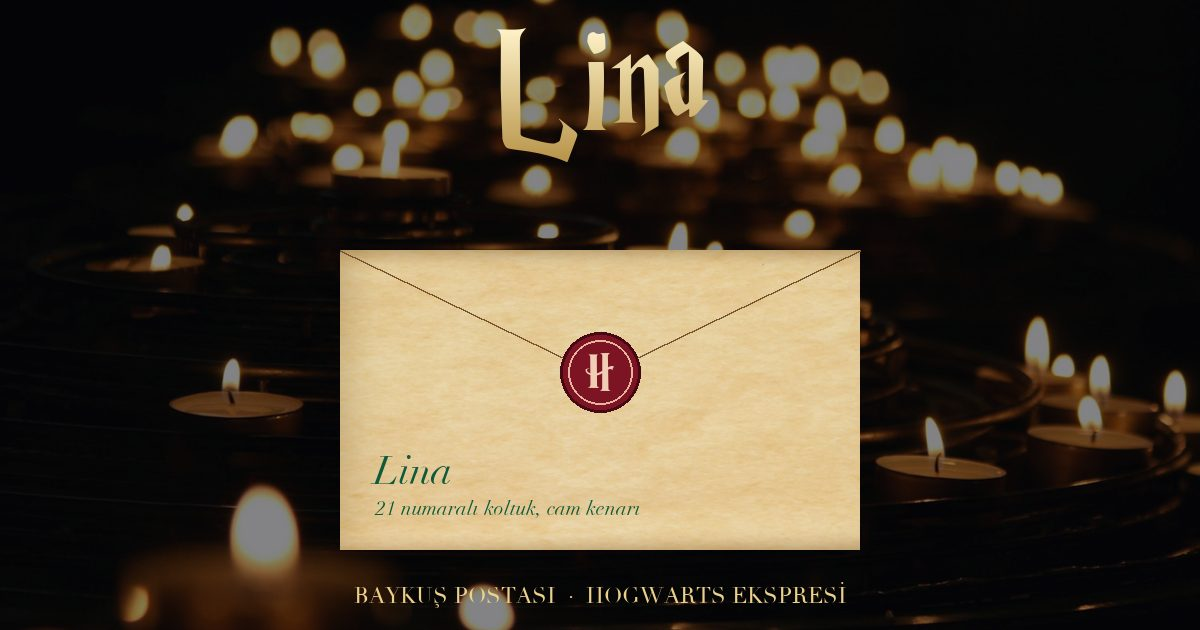
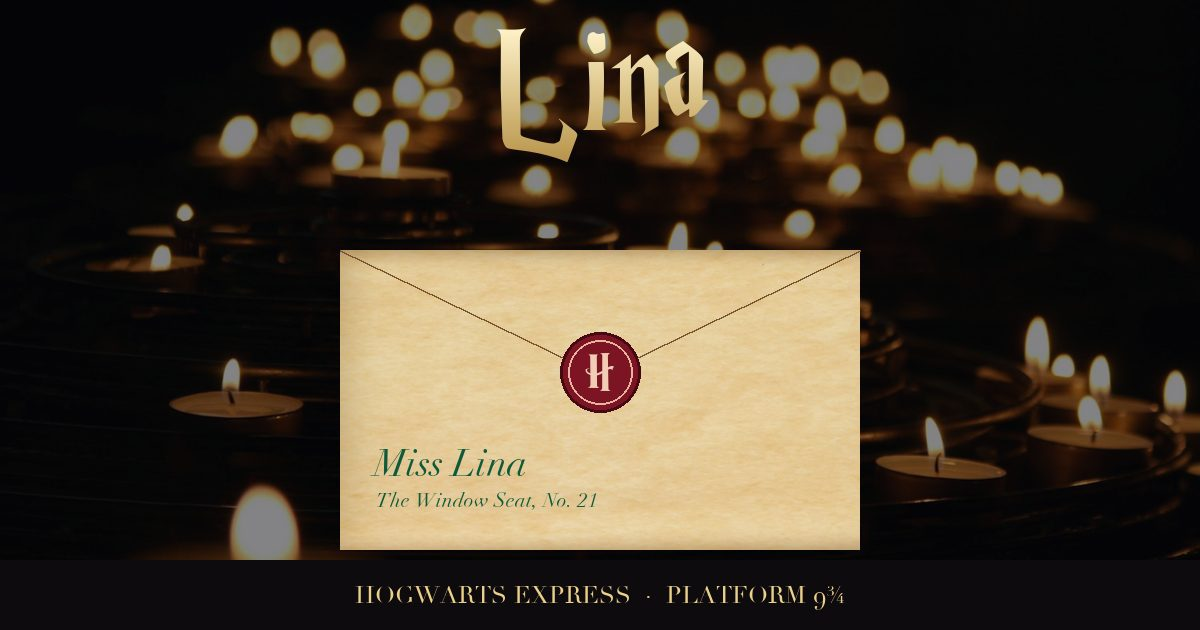
İkonik replikler orijinal İngilizce

Changed region(s): [[0.0925, 0.8746, 0.7092, 1.0], [0.3083, 0.6937, 0.5242, 0.8143], [0.74, 0.9651, 0.8017, 0.9952]]

diff --git a/index.html b/index.html
@@ -12,14 +12,14 @@
 <meta property="og:title" content="Lina'ya baykuş postası">
 <meta property="og:description" content="Hogwarts'tan bir mektubun var. Mührü kır.">
 <meta property="og:url" content="https://b-eginn.github.io/kis-sayisi/">
-<meta property="og:image" content="https://b-eginn.github.io/kis-sayisi/img/onizleme.jpg?v=3">
-<meta property="og:image:secure_url" content="https://b-eginn.github.io/kis-sayisi/img/onizleme.jpg?v=3">
+<meta property="og:image" content="https://b-eginn.github.io/kis-sayisi/img/onizleme.jpg?v=4">
+<meta property="og:image:secure_url" content="https://b-eginn.github.io/kis-sayisi/img/onizleme.jpg?v=4">
 <meta property="og:image:type" content="image/jpeg">
 <meta property="og:image:width" content="1200">
 <meta property="og:image:height" content="630">
 <meta property="og:image:alt" content="Mühürlü bir Hogwarts mektubu: Lina, 21 numaralı koltuk">
 <meta name="twitter:card" content="summary_large_image">
-<meta name="twitter:image" content="https://b-eginn.github.io/kis-sayisi/img/onizleme.jpg?v=3">
+<meta name="twitter:image" content="https://b-eginn.github.io/kis-sayisi/img/onizleme.jpg?v=4">
 <title>Lina'ya Baykuş Postası</title>
 <style>html{-webkit-text-size-adjust:100%}body{margin:0}[hidden]{display:none!important}</style>
 <link rel="preconnect" href="https://fonts.googleapis.com">
@@ -201,7 +201,7 @@ button:focus-visible,input:focus-visible,a:focus-visible{outline:2px solid var(-
 .paper > *{position:relative}
 .np{padding-block:40px 56px}
 .np-mast{text-align:center;border-bottom:3px double #1b1814;padding-bottom:6px}
-.np-mast .ttl{font-family:var(--goth);font-weight:800;font-size:clamp(46px,14vw,78px);line-height:.95}
+.np-mast .ttl{font-family:var(--goth);font-weight:800;font-size:clamp(34px,10vw,70px);line-height:1;white-space:nowrap}
 .np-line{display:flex;justify-content:space-between;gap:8px;font-family:var(--display);font-size:9.5px;letter-spacing:.12em;text-transform:uppercase;border-bottom:1px solid #1b1814;padding:6px 0;margin-bottom:18px}
 .np-head{font-family:var(--display);font-weight:900;font-size:clamp(25px,7.2vw,38px);line-height:1.05;text-align:center;letter-spacing:.01em}
 .np-sub{font-style:italic;font-size:19px;text-align:center;margin:10px auto 18px;max-width:34ch}
@@ -349,6 +349,7 @@ button:focus-visible,input:focus-visible,a:focus-visible{outline:2px solid var(-
 #stars{position:absolute;inset:0;width:100%;height:100%;opacity:0;transition:opacity 1.6s ease;pointer-events:none}
 .finale.dark{background:#05040a}
 .finale.dark #stars{opacity:1}
+.mm{font-style:italic;font-size:19px;opacity:.75;margin-top:4px}
 .spell{font-family:var(--display);font-weight:700;letter-spacing:.3em;text-transform:uppercase;font-size:13px;background:transparent;border:1px solid var(--gold);color:var(--gold-hi);padding:12px 26px;border-radius:999px}
 .foot{font-family:var(--display);font-size:9.5px;letter-spacing:.14em;text-transform:uppercase;opacity:.5;line-height:1.8;margin-top:30px}
 
@@ -437,13 +438,13 @@ button:focus-visible,input:focus-visible,a:focus-visible{outline:2px solid var(-
 
   <div class="stage" id="stage">
     <p class="hp-name" id="hpName">Lina</p>
-    <p class="cover-sub" id="coverSub">Bir mektubun var.</p>
+    <p class="cover-sub" id="coverSub" lang="en">Yer a witch, Lina.</p>
     <div class="envelope" id="envelope">
       <span class="no-stamp">Pulsuz. Baykuşla teslim edilmiştir.</span>
       <div class="address">
-        <b>Lina</b>
-        21 numaralı koltuk, cam kenarı<br>
-        Tarsus–Nevşehir otobüsü
+        <b>Miss Lina</b>
+        <span lang="en">The Window Seat, No. 21<br>
+        The Tarsus–Nevşehir Coach</span>
       </div>
       <button class="seal pulse" id="seal" aria-label="Mührü kır ve mektubu aç">H</button>
     </div>
@@ -452,11 +453,12 @@ button:focus-visible,input:focus-visible,a:focus-visible{outline:2px solid var(-
     <article class="letter" id="letter" hidden>
       <div class="crest">
         <span class="hw">Hogwarts</span>
-        <span class="school">CADILIK VE BÜYÜCÜLÜK OKULU</span>
-        <span class="head">Müdür: Albus Dumbledore</span>
+        <span class="school" lang="en">SCHOOL of WITCHCRAFT and WIZARDRY</span>
+        <span class="head" lang="en">Headmaster: Albus Dumbledore</span>
       </div>
-      <p>Sayın Lina,</p>
-      <p>Hogwarts Ekspresi'nin 29 Ekim Perşembe 12:30 seferine kabul edildiğinizi bildirmekten mutluluk duyarız. 21 numaralı cam kenarı koltuğunuz sizin için ayrılmıştır.</p>
+      <p lang="en">Dear Lina,</p>
+      <p lang="en">We are pleased to inform you that you have a place on the Hogwarts Express.</p>
+      <p>Ekspres, 29 Ekim Perşembe 12:30'da Tarsus'taki Peron 9¾'ten kalkacaktır. 21 numaralı cam kenarı koltuğunuz sizin için ayrılmıştır.</p>
       <p><i>Gerekli malzemeler:</i></p>
       <ul>
         <li>Bir valiz</li>
@@ -464,14 +466,14 @@ button:focus-visible,input:focus-visible,a:focus-visible{outline:2px solid var(-
         <li>Kulaklık ve iyi bir şarkı listesi</li>
         <li>Bu mektup</li>
       </ul>
-      <p style="font-size:17px;font-style:italic">Öğrenciler yanlarında bir baykuş, bir kedi ya da bir kurbağa getirebilir.</p>
+      <p style="font-size:17px;font-style:italic" lang="en">Students may also bring an owl OR a cat OR a toad.</p>
       <p class="q">Yola çıkmadan önce tek bir kural var. Kemerini taktın mı?</p>
       <div class="row" id="gateBtns">
         <button class="btn" id="passenger">Taktım</button>
         <button class="btn ghost" id="driver">Takmadım</button>
       </div>
       <p class="warn" id="driverMsg" hidden>Biliyordum. Önce kemer, sonra büyü. Bekliyorum.</p>
-      <div><p class="sig">Batuhan</p><p class="role">Müdür Yardımcısı Minerva McGonagall adına</p></div>
+      <div lang="en"><p style="font-style:italic;font-size:17px">Yours sincerely,</p><p class="sig">Batuhan</p><p class="role">on behalf of Minerva McGonagall, Deputy Headmistress</p></div>
     </article>
   </div>
 </header>
@@ -496,22 +498,22 @@ button:focus-visible,input:focus-visible,a:focus-visible{outline:2px solid var(-
   <div class="train-photo"><img src="img/hogwarts-ekspresi.jpg" alt="Glenfinnan viyadüğünden geçen buharlı tren" loading="lazy"><span class="credit">Glenfinnan viyadüğü · Fotoğraf: Joss Broward / Unsplash</span></div>
   <div class="in sec" style="padding-top:36px">
     <p class="eyebrow">King's Cross değil, Tarsus</p>
-    <h2 class="title">Peron 9¾</h2>
-    <p class="lede">9 ile 10 numaralı peronların arasında bir duvar var. Duvara doğru yürü. Gerginsen biraz koşarak.</p>
+    <h2 class="title" lang="en">Platform 9¾</h2>
+    <p class="lede">9 ile 10 numaralı peronların arasında bir duvar var. Duvara doğru yürü. <span lang="en">“Best do it at a bit of a run if you're nervous.”</span></p>
     <div class="platform-area" id="platformArea">
       <div id="ticketWrap" hidden>
-        <article class="ticket" aria-label="Hogwarts Ekspresi bileti">
+        <article class="ticket" aria-label="Hogwarts Express bileti">
           <div class="t-head">
-            <p class="k1">TEK YÖN · BİRİNCİ SINIF</p>
+            <p class="k1" lang="en">ONE WAY · FIRST CLASS</p>
             <p class="hw">Hogwarts</p>
-            <p class="k2">EKSPRESİ</p>
+            <p class="k2" lang="en">EXPRESS</p>
           </div>
           <div class="t-main">
             <div class="t-route">
               <div class="c">TARSUS<small>Mersin</small></div><span class="line"></span>
               <div class="c" style="text-align:right">NEVŞEHİR<small>Kapadokya</small></div>
             </div>
-            <div class="platform"><span>Peron</span><b>9¾</b></div>
+            <div class="platform" lang="en"><span>Platform</span><b>9¾</b></div>
             <div class="t-fields">
               <div><div class="k">Tarih</div><div class="v">Perşembe, 29 Ekim</div></div>
               <div><div class="k">Kalkış</div><div class="v">12:30</div></div>
@@ -519,7 +521,7 @@ button:focus-visible,input:focus-visible,a:focus-visible{outline:2px solid var(-
               <div><div class="k">Bagaj</div><div class="v">1 valiz, bolca sevgi</div></div>
               <div class="wide"><div class="k">Yolcu notu</div><div class="v" style="font-weight:500">21 numara, cam kenarı. Çok iyi seçim. Karlı vadilere bakarken bil ki birisi seni çok seviyor ve iyi ki varsın diyor.</div></div>
             </div>
-            <p class="t-note">Not: Hogwarts Ekspresi normalde 11:00'de kalkar. Senin için 12:30'a çekildi.</p>
+            <p class="t-note">Not: Hogwarts Express normalde saat 11:00'de kalkar. Senin için 12:30'a çekildi.</p>
           </div>
           <div class="t-stub" id="stub">
             <div><div class="k">Koçan</div><div class="v">Koltuk 21</div></div>
@@ -529,7 +531,7 @@ button:focus-visible,input:focus-visible,a:focus-visible{outline:2px solid var(-
         </article>
       </div>
       <div class="wall" id="wall">
-        <div class="sign-plate"><span>PERON</span><b>9¾</b></div>
+        <div class="sign-plate" lang="en"><span>PLATFORM</span><b>9¾</b></div>
         <button class="btn gold wall-btn" id="wallBtn" style="background:rgba(20,15,10,.7)">Duvara doğru koş</button>
       </div>
     </div>
@@ -538,7 +540,7 @@ button:focus-visible,input:focus-visible,a:focus-visible{outline:2px solid var(-
 
 <section class="paper" id="gazete">
   <div class="in np">
-    <div class="np-mast"><p class="ttl">Gelecek Postası</p></div>
+    <div class="np-mast"><p class="ttl" lang="en">The Daily Prophet</p></div>
     <div class="np-line"><span>Perşembe, 29 Ekim</span><span>Özel baskı</span><span>Fiyatı: 5 Knut</span></div>
     <h2 class="np-head">TARSUS–NEVŞEHİR HATTINDA OLAĞANÜSTÜ GÜZELLİK</h2>
     <p class="np-sub">Yolcular camdan dışarı bakmayı unuttu. Büyü Bakanlığı inceleme başlattı.</p>
@@ -555,7 +557,7 @@ button:focus-visible,input:focus-visible,a:focus-visible{outline:2px solid var(-
       <h3>İlanlar</h3>
       <p><b>KAYIP:</b> Bir kalp. Son görüldüğü yer 21 numaralı koltuk. Bulan sahibine iade etmesin, orada kalsın.</p>
       <p><b>SATILIK:</b> Hiç kullanılmamış "Hayır" butonu. Sahibi istifa etti. Detaylar kehanet sayfasında.</p>
-      <p><b>ARANIYOR:</b> Nevşehir'de sıcak bir bal birası içecek güzel bir yolcu. Başvuru gerekmez, zaten bulundu.</p>
+      <p><b>ARANIYOR:</b> Nevşehir'de sıcak bir butterbeer içecek güzel bir yolcu. Başvuru gerekmez, zaten bulundu.</p>
     </div>
   </div>
 </section>
@@ -563,7 +565,7 @@ button:focus-visible,input:focus-visible,a:focus-visible{outline:2px solid var(-
 <section class="night sec" id="sapka">
   <div class="in center">
     <p class="eyebrow">Büyük Salon</p>
-    <h2 class="title">Seçmen Şapka</h2>
+    <h2 class="title" lang="en">The Sorting Hat</h2>
     <p class="lede">Hogwarts'ta herkes bir binaya yerleştirilir. Şapkayı tak, bakalım seni nereye yerleştirecek.</p>
     <div class="hat-stage">
       <svg class="hat" id="hat" viewBox="0 0 200 200" aria-hidden="true">
@@ -595,12 +597,13 @@ button:focus-visible,input:focus-visible,a:focus-visible{outline:2px solid var(-
 <section class="parch sec" id="harita">
   <div class="in">
     <p class="eyebrow">Canlı · Tahmini</p>
-    <h2 class="title">Çapulcu Haritası</h2>
+    <h2 class="title" lang="en">The Marauder's Map</h2>
     <p class="lede">Bu harita Hogwarts'taki herkesin nerede olduğunu gösterir. Bugünlük sadece seni. Otobüsün saatine bakarak tahmin ediyor.</p>
     <div class="map-wrap" id="mapWrap">
       <svg viewBox="0 0 360 460" id="mapSvg" role="img" aria-label="Tarsus'tan Nevşehir'e tahmini konum haritası">
-        <text x="180" y="26" text-anchor="middle" font-family="Cormorant Garamond, serif" font-style="italic" font-size="12" fill="#5a4330">Bay Aylak, Kılkuyruk, Patiayak ve Çatalak gururla sunar</text>
-        <text x="180" y="48" text-anchor="middle" font-family="Cinzel, serif" font-weight="700" font-size="17" letter-spacing="3" fill="#7c1424">ÇAPULCU HARİTASI</text>
+        <text x="180" y="20" text-anchor="middle" font-family="Cormorant Garamond, serif" font-style="italic" font-size="12" fill="#5a4330">Messrs Moony, Wormtail, Padfoot and Prongs</text>
+        <text x="180" y="35" text-anchor="middle" font-family="Cormorant Garamond, serif" font-style="italic" font-size="12" fill="#5a4330">are proud to present</text>
+        <text x="180" y="58" text-anchor="middle" font-family="Cinzel, serif" font-weight="700" font-size="17" letter-spacing="3" fill="#7c1424">THE MARAUDER'S MAP</text>
         <g fill="none" stroke="#6a5440" stroke-width="1" opacity=".35">
           <path d="M20 420c40-10 60 8 90-6M250 440c30-6 50 4 90-8M30 110c30 10 50-6 80 4M260 80c20 8 40-4 70 2"/>
           <path d="M40 270l14-22 14 22M62 270l12-18 12 18M260 320l14-24 14 24M282 320l12-18 12 18M90 190l12-20 12 20M240 220l12-20 12 20"/>
@@ -619,15 +622,15 @@ button:focus-visible,input:focus-visible,a:focus-visible{outline:2px solid var(-
       </svg>
       <div class="map-cover" id="mapCover">
         <p>Boş bir parşömen. Asanı dokundur ve yemin et.</p>
-        <button class="btn" id="mapOpen">Kötülük peşinde olduğuma ciddiyetle yemin ederim</button>
+        <button class="btn" id="mapOpen" lang="en">I solemnly swear that I am up to no good.</button>
       </div>
     </div>
     <p class="map-status" id="mapStatus" aria-live="polite">Yemin et, harita sana nerede olduğunu söylesin.</p>
-    <button class="btn ghost map-close" id="mapClose" hidden>Fesat tamam</button>
+    <button class="btn ghost map-close" id="mapClose" hidden lang="en">Mischief managed.</button>
     <div class="stops" id="stopList">
       <div class="stop" data-i="0"><span class="km">KM 0</span><div><b>Tarsus, 12:30</b><p>Otobüs kalkarken bil ki arkanda seni seven biri var. Yolun açık olsun.</p></div></div>
       <div class="stop" data-i="1"><span class="km">KM 60</span><div><b>Toroslar</b><p>Virajlar başlıyor. Kulaklıkta güzel bir şarkı, camda karlı dağlar. Tadını çıkar.</p></div></div>
-      <div class="stop" data-i="2"><span class="km">KM 165</span><div><b>Niğde</b><p>Mola. Sıcak bir çay iç, biraz yürü. Bal birası yok ama çay da iş görür.</p></div></div>
+      <div class="stop" data-i="2"><span class="km">KM 165</span><div><b>Niğde</b><p>Mola. Sıcak bir çay iç, biraz yürü. Butterbeer yok ama çay da iş görür.</p></div></div>
       <div class="stop" data-i="3"><span class="km">KM 250</span><div><b>Nevşehir</b><p>Kapadokya'nın Hogsmeade'i. Karlı vadiler, peri bacaları, kardeşin. İyi ki varsın.</p></div></div>
     </div>
   </div>
@@ -635,12 +638,12 @@ button:focus-visible,input:focus-visible,a:focus-visible{outline:2px solid var(-
 
 <section class="frog-sec sec" id="kurbaga">
   <div class="in center">
-    <p class="eyebrow">Hogwarts Ekspresi büfesi</p>
-    <h2 class="title">Çikolata Kurbağa</h2>
+    <p class="eyebrow">Trendeki büfe arabası</p>
+    <h2 class="title" lang="en">Chocolate Frogs</h2>
     <p class="lede">Her kutudan bir ünlü cadı ya da büyücü kartı çıkar. Dikkat et, kurbağa zıplar.</p>
     <div class="frog-stage" id="frogStage">
       <div class="box" id="frogBox">
-        <div class="face"><b>ÇİKOLATA KURBAĞA</b><span>Ünlü Cadılar ve Büyücüler kartı içerir</span></div>
+        <div class="face" lang="en"><b>CHOCOLATE FROG</b><span>With a Famous Witches and Wizards card inside</span></div>
         <div class="rim"></div>
       </div>
       <svg class="frog" id="frog" viewBox="0 0 80 60" aria-hidden="true">
@@ -655,13 +658,13 @@ button:focus-visible,input:focus-visible,a:focus-visible{outline:2px solid var(-
       <div id="cardWrap" hidden class="center">
         <div class="card">
           <div class="card-in">
-            <p class="top">ÜNLÜ CADILAR VE BÜYÜCÜLER</p>
+            <p class="top" lang="en">FAMOUS WITCHES AND WIZARDS</p>
             <div class="card-pic" id="cardPic">
               <img class="alive" src="img/lina-3.jpg" alt="Lina kartı" style="--o:62% 40%;--d:8s">
               <p class="gone-note">Kartındaki kişi bir dakikalığına çerçeveden çıktı. Birazdan döner.</p>
             </div>
             <p class="card-name">Lina</p>
-            <p class="card-rare">NADİRLİK: TEK KOPYA</p>
+            <p class="card-rare" lang="en">RARITY: ONE OF A KIND</p>
           </div>
         </div>
         <p class="card-desc">Tarsus'tan Nevşehir'e giden en güzel yolcu. Gülüşüyle bulunduğu yeri Lumos'a gerek kalmadan aydınlatmasıyla tanınır. En bilinen başarısı: Batuhan'ın kalbine çok derin yerleşmek.</p>
@@ -672,8 +675,8 @@ button:focus-visible,input:focus-visible,a:focus-visible{outline:2px solid var(-
 
 <section class="parch sec" id="fasulye">
   <div class="in">
-    <p class="eyebrow">Hogwarts Ekspresi büfesi</p>
-    <h2 class="title">Bertie Bott'un Her Çeşit Fasulyesi</h2>
+    <p class="eyebrow">Trendeki büfe arabası</p>
+    <h2 class="title" lang="en">Bertie Bott's Every Flavour Beans</h2>
     <p class="lede">Bisküvi sevdiğini biliyoruz, kanıtı aşağıda. Ama bugün menüde Bertie Bott var. Şansını dene.</p>
     <div class="bean-grid">
       <div class="polaroid"><div class="pic"><img class="alive" src="img/lina-2.jpg" alt="Bisküvili masa başında yolcu" style="--o:55% 40%;--d:10s"></div><span>Kanıt: bisküvi</span></div>
@@ -682,8 +685,8 @@ button:focus-visible,input:focus-visible,a:focus-visible{outline:2px solid var(-
         <path d="M30 28h80c10 0 16 8 16 18v104c0 14-10 24-24 24H38c-14 0-24-10-24-24V46c0-10 6-18 16-18z" fill="rgba(255,255,255,.35)" stroke="#2d1f14" stroke-width="2"/>
         <g id="jarBeans"></g>
         <rect x="30" y="80" width="80" height="40" rx="3" fill="#f3e6c8" stroke="#2d1f14" stroke-width="1"/>
-        <text x="70" y="96" text-anchor="middle" font-family="Cinzel, serif" font-weight="700" font-size="9" fill="#7c1424">BERTIE BOTT</text>
-        <text x="70" y="110" text-anchor="middle" font-family="Cormorant Garamond, serif" font-style="italic" font-size="10" fill="#2d1f14">Her çeşit fasulye</text>
+        <text x="70" y="96" text-anchor="middle" font-family="Cinzel, serif" font-weight="700" font-size="9" fill="#7c1424">BERTIE BOTT'S</text>
+        <text x="70" y="110" text-anchor="middle" font-family="Cormorant Garamond, serif" font-style="italic" font-size="10" fill="#2d1f14">Every Flavour Beans</text>
       </svg>
     </div>
     <div class="bean-out" id="beanOut" aria-live="polite">
@@ -762,9 +765,9 @@ button:focus-visible,input:focus-visible,a:focus-visible{outline:2px solid var(-
 
 <section class="night sec" id="yemin">
   <div class="in">
-    <p class="eyebrow">Bozulmaz Yemin</p>
-    <h2 class="title">Bu yemin bozulmaz</h2>
-    <p class="lede">Adı üstünde. Mühürleri kaldırmayı deneyebilirsin. Deneyebilirsin.</p>
+    <p class="eyebrow">Ateşten iplikler</p>
+    <h2 class="title" lang="en">The Unbreakable Vow</h2>
+    <p class="lede">Adı üstünde, bozulmaz. Mühürleri kaldırmayı deneyebilirsin. Deneyebilirsin.</p>
     <div class="vow-threads" aria-hidden="true"></div>
     <div class="vow">
       <label class="term"><input type="checkbox" id="t1" checked><span>Bu sayfayı okuyan kişinin çok sevildiğini kabul ediyorum.<em></em></span></label>
@@ -784,7 +787,7 @@ button:focus-visible,input:focus-visible,a:focus-visible{outline:2px solid var(-
     <p class="eyebrow">Varış</p>
     <h2 class="title">Kapadokya'nın Hogsmeade'i</h2>
     <div class="cols">
-      <p>Karla kaplı tepeler, sıcak ışıklar, buz gibi hava. Hogsmeade'de olsan Üç Süpürge'de bir bal birası içerdin. Nevşehir'de sıcak bir çay da olur. Hiçbir manzara senin kadar güzel değil ama.</p>
+      <p>Karla kaplı tepeler, sıcak ışıklar, buz gibi hava. Hogsmeade'de olsan Three Broomsticks'te bir butterbeer içerdin. Nevşehir'de sıcak bir çay da olur. Hiçbir manzara senin kadar güzel değil ama.</p>
       <p>Yanına kalın bir şey al, üşüme. Kardeşine sıkıca sarıl. Kendine iyi bak, çünkü sen çok değerlisin ve bunu bilmeni istiyorum.</p>
     </div>
   </div>
@@ -792,7 +795,7 @@ button:focus-visible,input:focus-visible,a:focus-visible{outline:2px solid var(-
 
 <section class="patronus sec" id="patronus">
   <div class="in">
-    <p class="eyebrow" style="color:#b9cdfa">Karanlık Sanatlara Karşı Savunma</p>
+    <p class="eyebrow" style="color:#b9cdfa" lang="en">Defence Against the Dark Arts</p>
     <h2 class="title">Patronus</h2>
     <p class="lede" style="margin-inline:auto">Patronus, onu çağıranın en mutlu anısından doğar. Benimkini çağırıyorum.</p>
     <canvas id="patCanvas" aria-hidden="true"></canvas>
@@ -811,9 +814,9 @@ button:focus-visible,input:focus-visible,a:focus-visible{outline:2px solid var(-
   </div>
   <div class="in">
     <p class="eyebrow">Son sayfa</p>
-    <p class="after">Bunca zamandan sonra?</p>
+    <p class="after" lang="en">After all this time?</p>
     <button class="spell" id="alwaysBtn">Cevapla</button>
-    <p class="always" id="always" hidden>Her zaman.</p>
+    <p class="always" id="always" hidden lang="en">Always.</p>
     <div id="noxArea" hidden style="display:flex;flex-direction:column;align-items:center;gap:16px">
       <p class="body" id="finaleText">Okuduğun için teşekkürler. Işıkları sen söndür.</p>
       <button class="spell" id="spell">Nox</button>
@@ -822,6 +825,7 @@ button:focus-visible,input:focus-visible,a:focus-visible{outline:2px solid var(-
       <p class="big">İyi yolculuklar</p>
       <p class="body">İyi ki varsın, iyi ki tanıdım. Seni seviyorum.</p>
       <p class="sign">Batuhan</p>
+      <p class="mm" lang="en">Mischief managed.</p>
     </div>
     <p class="foot">Fotoğraflar: Joss Broward, Erik Karits, Kevin Mueller, Mike Labrum, Safwan Thottoli, Shamoil, Igor Sporynin / Unsplash<br>Harry P yazı tipi: GM, hayran yapımı · Harry Potter evreni J.K. Rowling ve Warner Bros.'a aittir</p>
   </div>
@@ -935,7 +939,7 @@ button:focus-visible,input:focus-visible,a:focus-visible{outline:2px solid var(-
 
   // seçmen şapka
   const hat = $('hat'), says = $('hatSays'), hatBtn = $('hatBtn');
-  const firstRun = ['Hmm... Zor. Çok zor.','Cesaret var, bu kesin. Gryffindor sana yakışırdı.','Sadakat de var. Hufflepuff seni hemen alırdı.','Zekâ desen ayrı. Ravenclaw kapıda bekliyor.','Biraz da inat var. Slytherin göz kırpıyor.','Ama dur... Sen zaten bir yere yerleşmişsin. Hem de çok derine.'];
+  const firstRun = ['Hmm... Difficult. Very difficult.','Cesaret var, bu kesin. Gryffindor sana yakışırdı.','Sadakat de var. Hufflepuff seni hemen alırdı.','Zekâ desen ayrı. Ravenclaw kapıda bekliyor.','Biraz da inat var. Slytherin göz kırpıyor.','Ama dur... Sen zaten bir yere yerleşmişsin. Hem de çok derine.'];
   const againRun = ['Yine mi? Peki, bir daha bakalım...','Hmm... Hayır. Kararım değişmedi.'];
   let hatRuns = 0, hatBusy = false;
   async function speak(t, ms){ says.classList.remove('big'); says.textContent = t; hat.classList.add('talk'); await wait(ms); hat.classList.remove('talk'); await wait(250); }
@@ -1035,11 +1039,11 @@ button:focus-visible,input:focus-visible,a:focus-visible{outline:2px solid var(-
 
   // bertie bott
   const FLAVORS = [
-    ['#f2c14e','Bal birası','Şanslısın. Klasik.'],
+    ['#f2c14e','Butterbeer','Şanslısın. Klasik.'],
     ['#e85d75','Çilek','Tatlı. Senin gibi.'],
     ['#6b4226','Çikolata','Güzel seçim.'],
     ['#a3c46c','Çim','Cidden çim. Özür dileriz.'],
-    ['#d9c9a3','Kulak kiri','Dumbledore da bunu yemişti. Teselli olsun.'],
+    ['#d9c9a3','Kulak kiri','“Alas! Ear wax!” Dumbledore da aynısını yaşamıştı.'],
     ['#f4f1e8','Sabun','Ağzın tertemiz oldu.'],
     ['#3f7d4a','Ispanak','Sağlıklı, en azından.'],
     ['#c0392b','Acı biber','Su iç, su.'],
